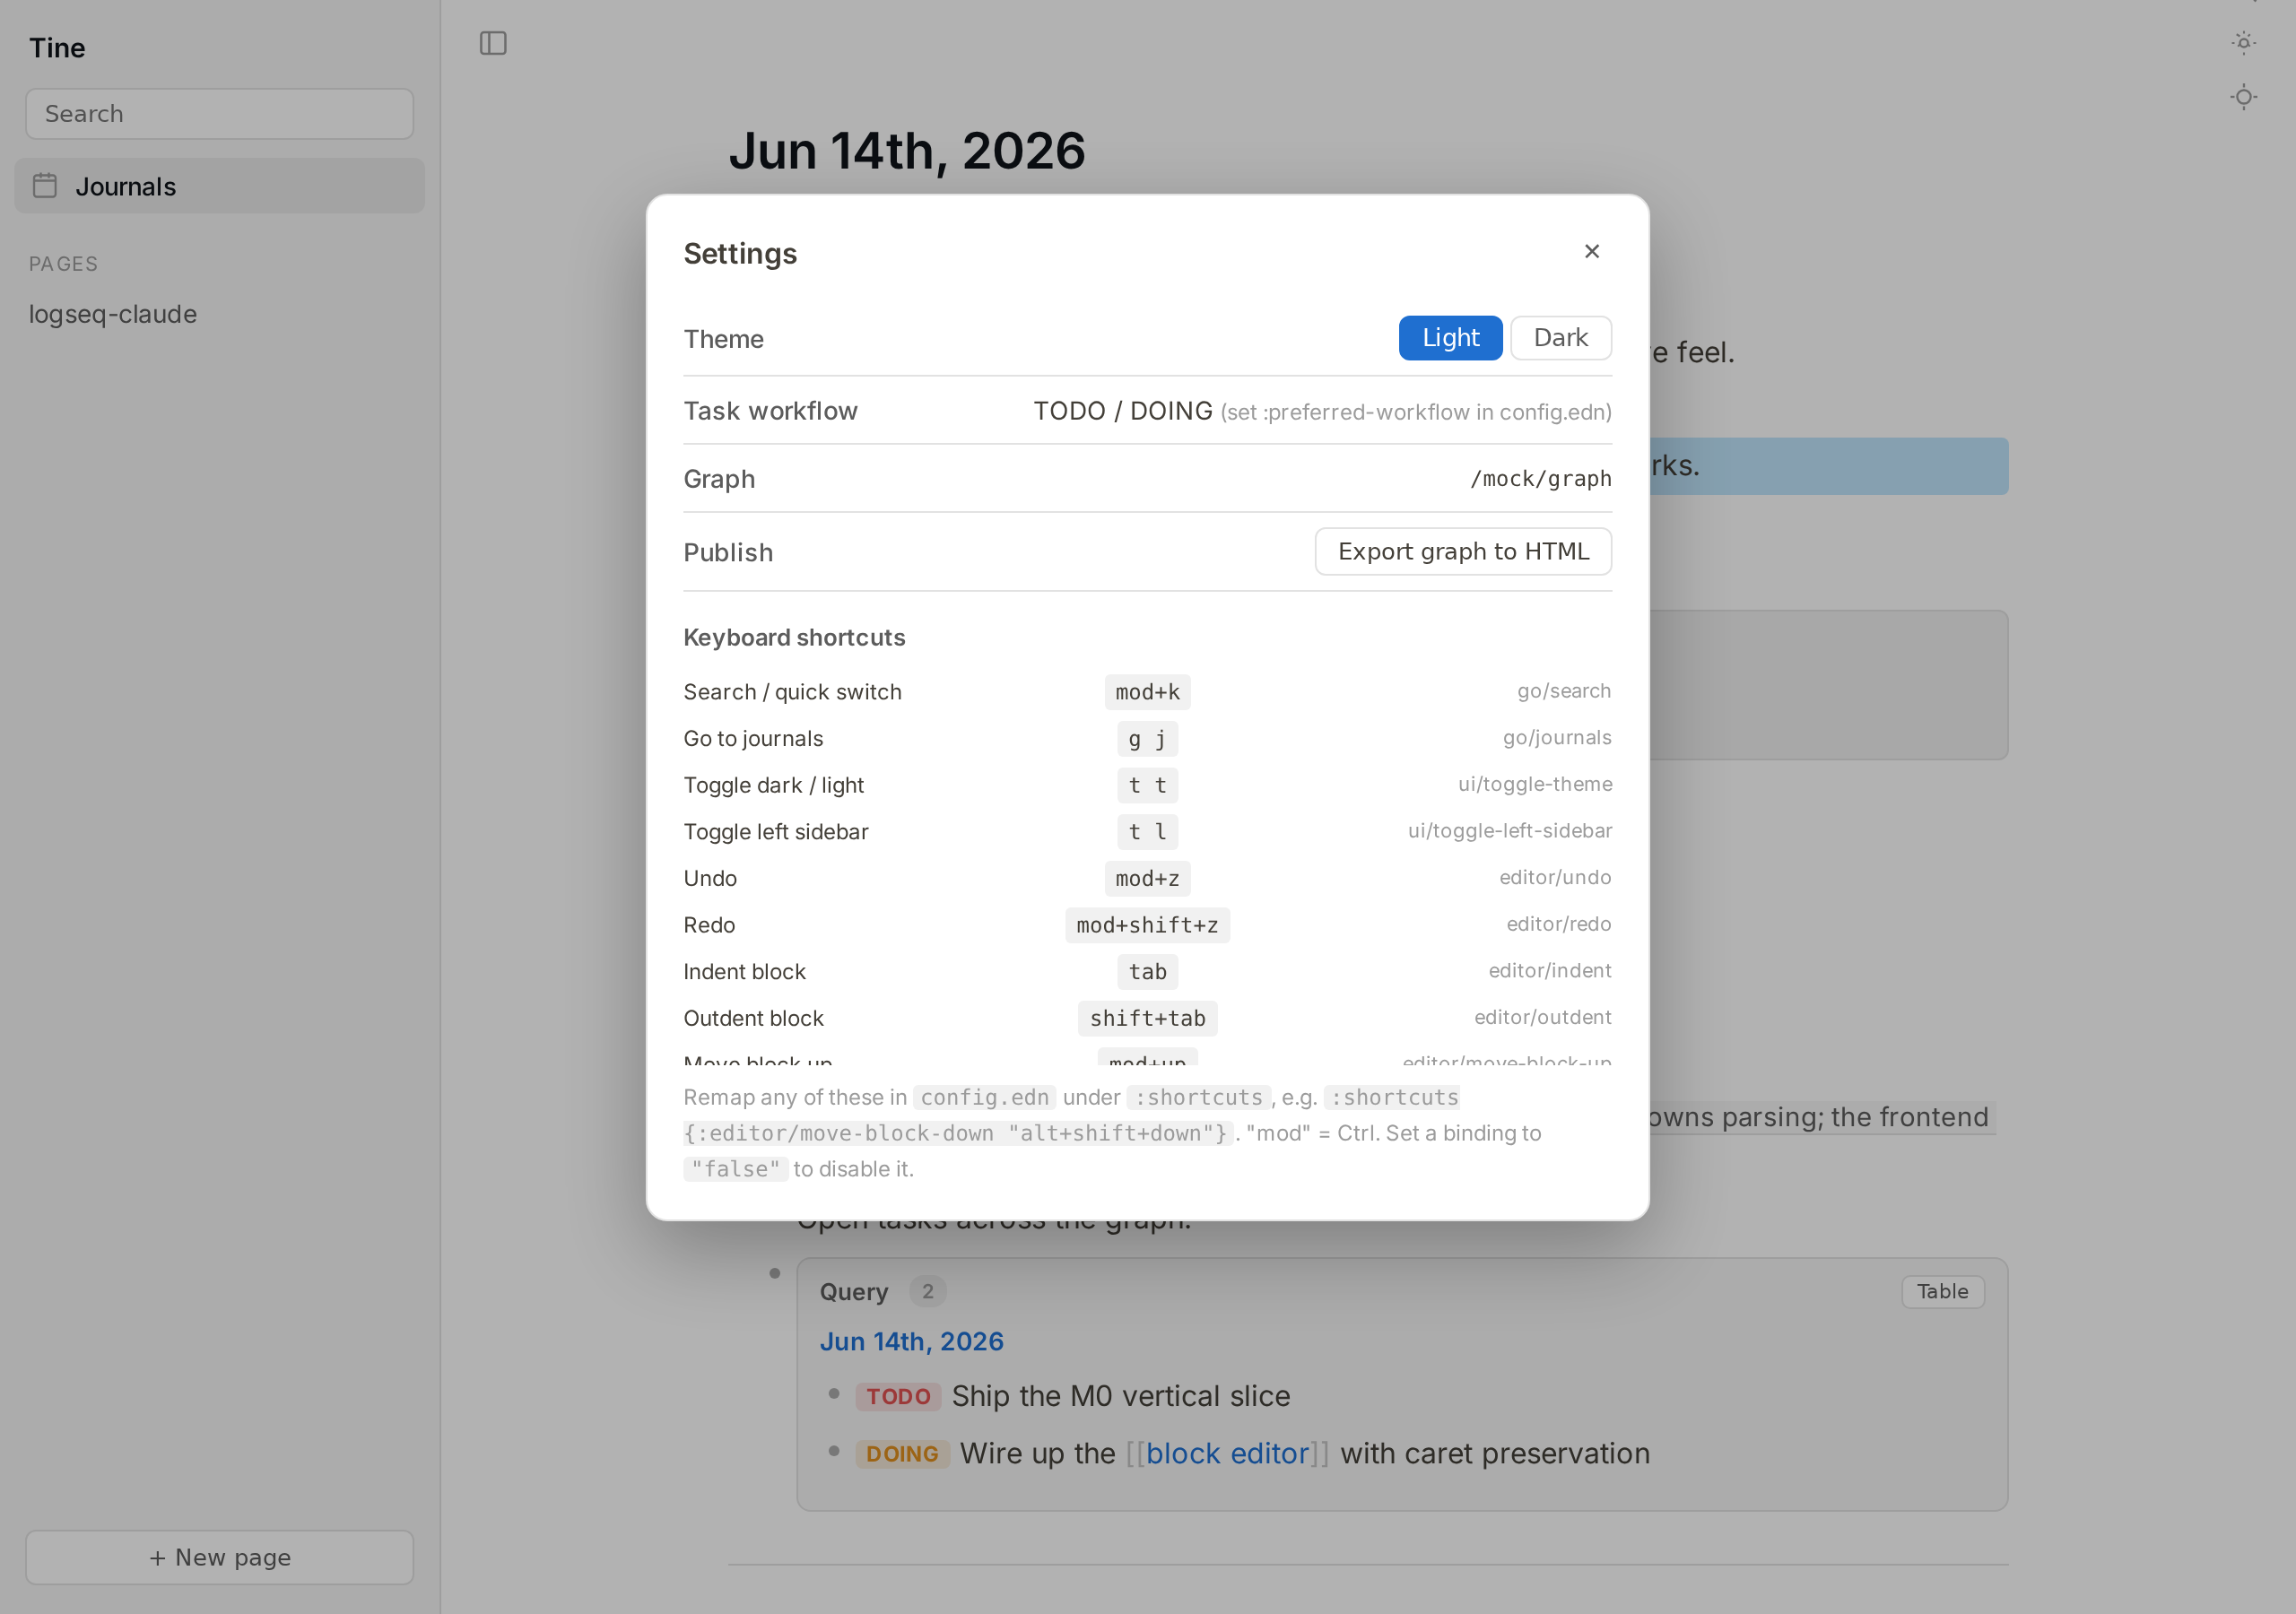
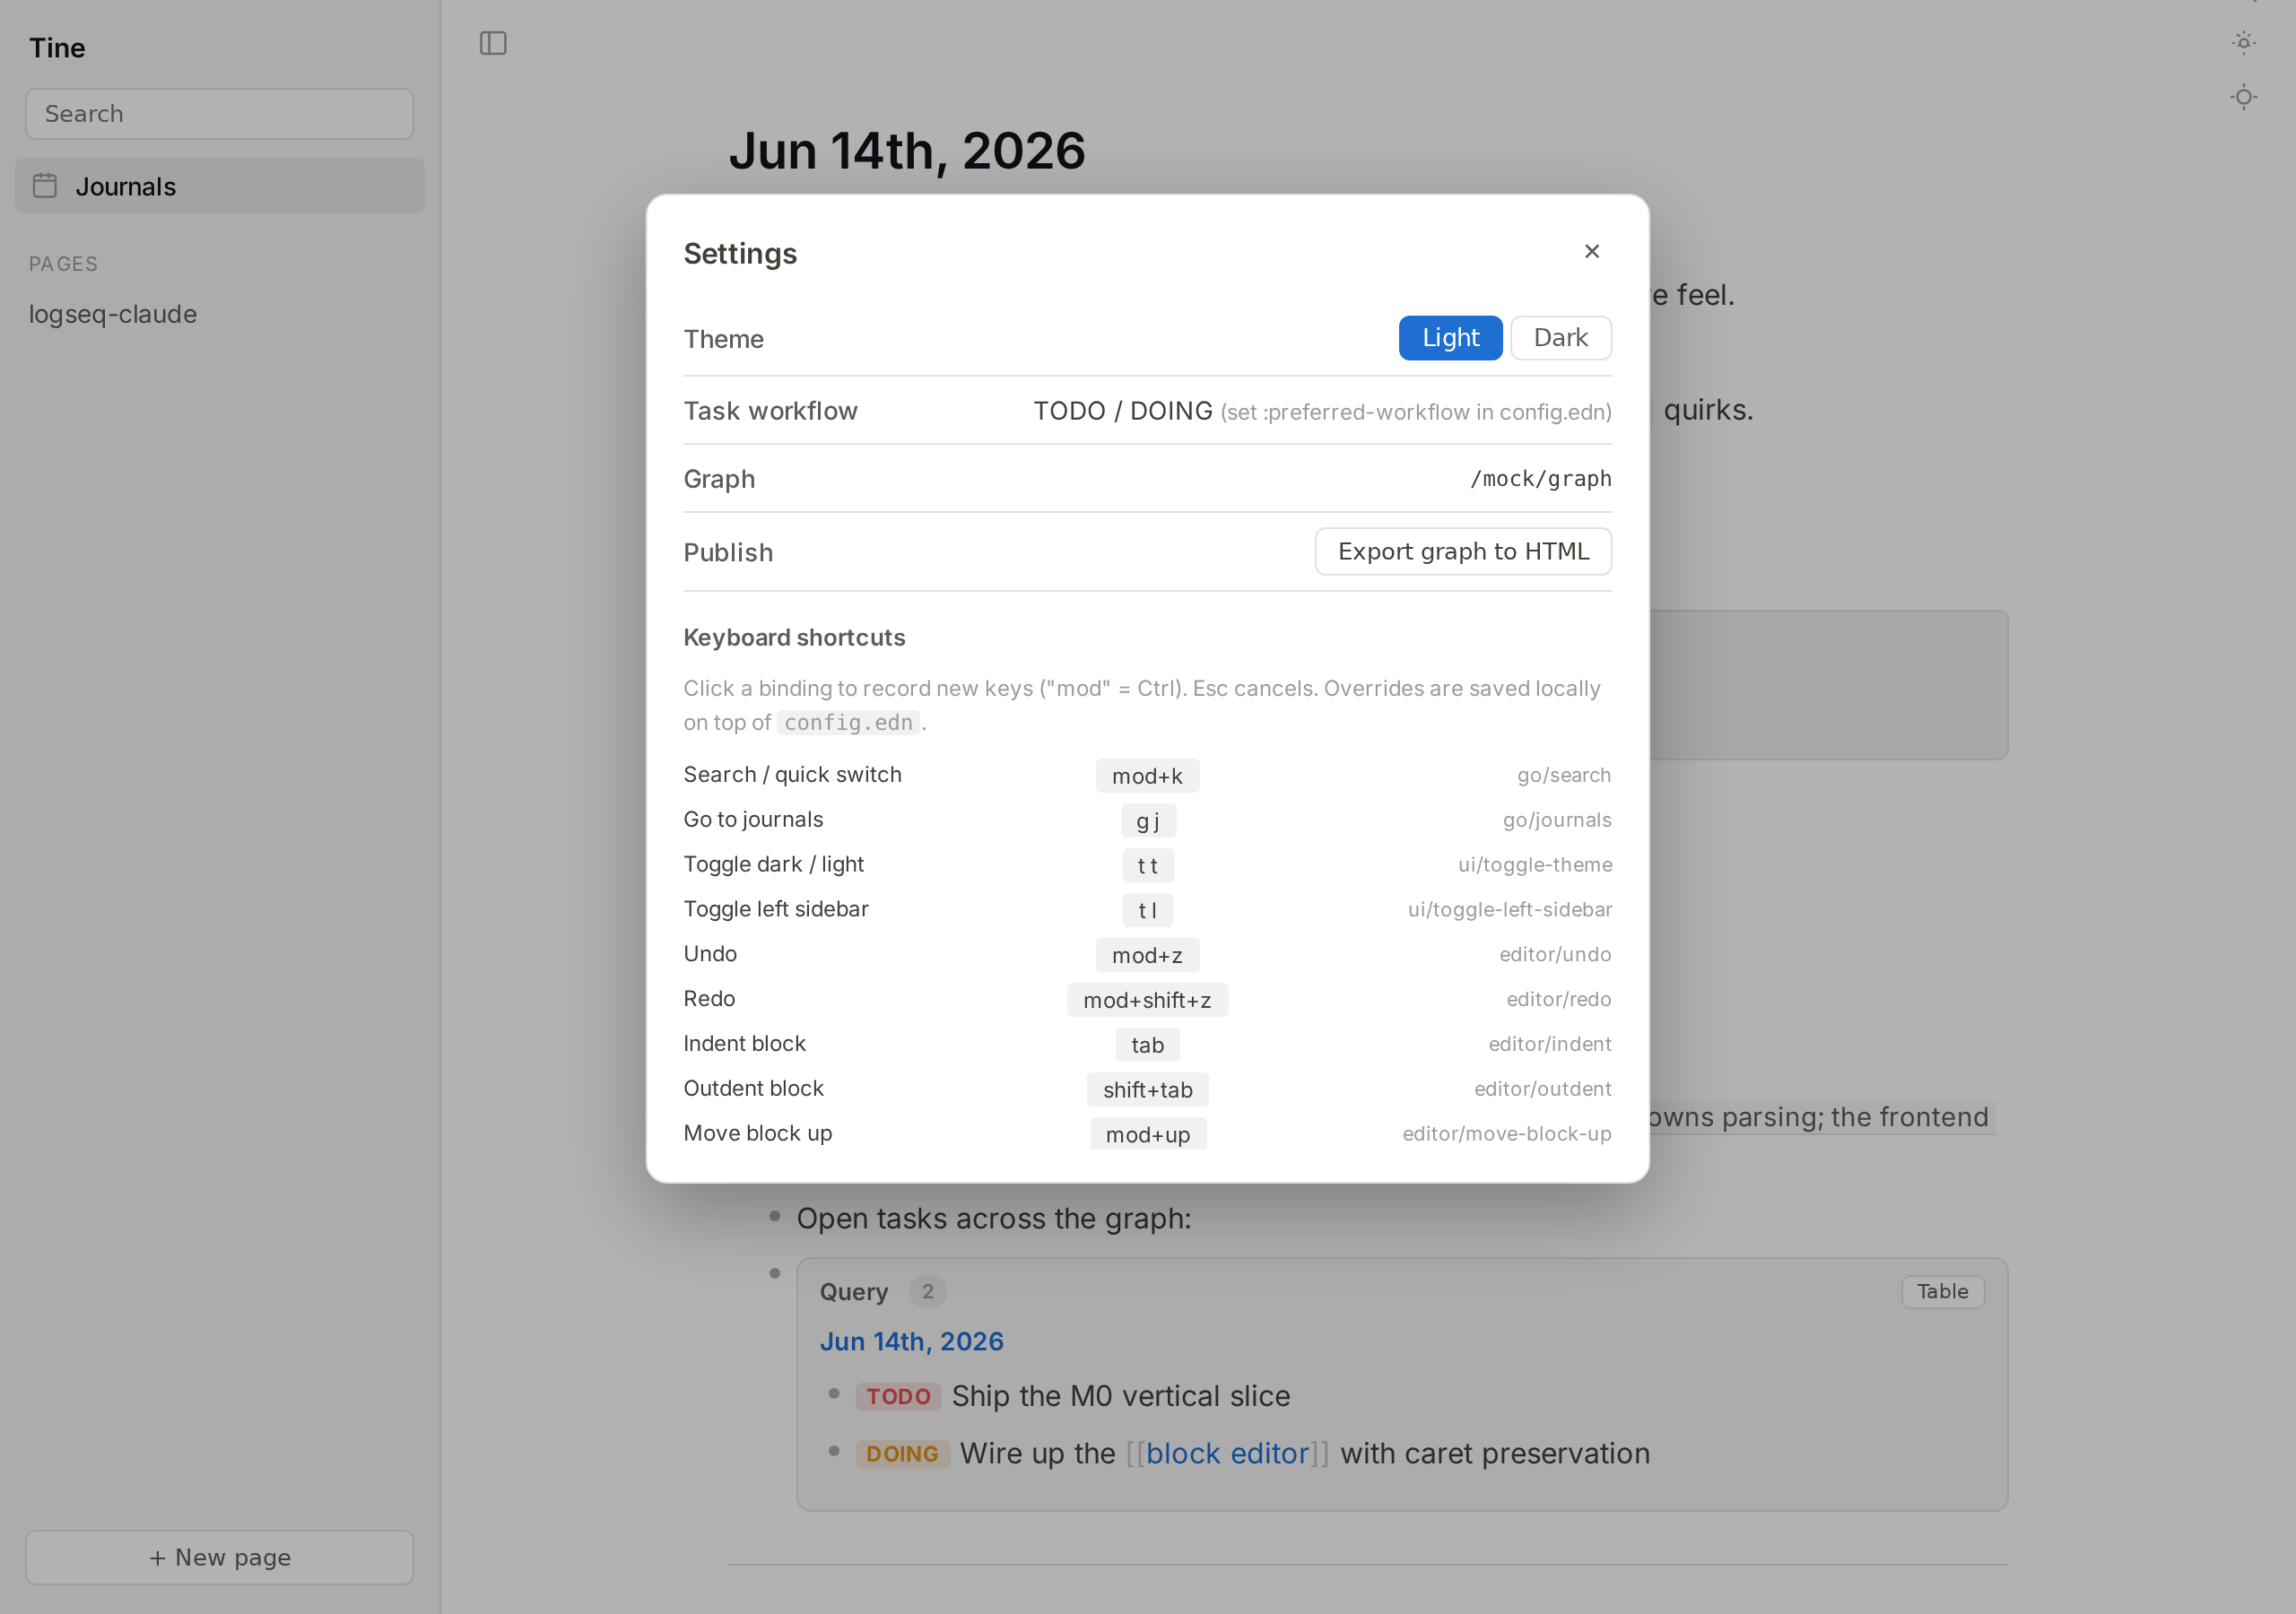
Remap shortcuts in Settings; fix page-name search false positives
- Settings modal: click any binding to record new keys; overrides persist in
  localStorage and layer over config.edn (defaults < config.edn < local). Reset
  button restores a default. Keybindings re-install reactively on change, so
  remaps take effect immediately. Dispatcher suspends during recording so chords
  like mod+k are captured, not fired. Esc now also closes the Settings modal.
- Search: the switcher's page matches were fuzzy (subsequence), so 'banka'
  matched 'BP téma Milan Wikarski'. Require the query as a contiguous substring
  of the page title; the fuzzy quick_switch stays for [[ ]] autocomplete only.

Tests: 43 Rust + 47 JS green.

diff --git a/src/components/Settings.tsx b/src/components/Settings.tsx
@@ -1,6 +1,16 @@
-import { For, Show, createSignal, type JSX } from "solid-js";
-import { settingsOpen, closeSettings, theme, toggleTheme, workflow, graphMeta } from "../ui";
-import { currentShortcuts } from "../keybindings";
+import { For, Show, createEffect, createSignal, onCleanup, type JSX } from "solid-js";
+import {
+  settingsOpen,
+  closeSettings,
+  theme,
+  toggleTheme,
+  workflow,
+  graphMeta,
+  shortcutOverrides,
+  setShortcutOverride,
+  resetShortcutOverride,
+} from "../ui";
+import { commandDefaults, eventToBindingString, setKeybindingsSuspended } from "../keybindings";
 import { backend } from "../backend";
 
 export function Settings(): JSX.Element {
@@ -14,6 +24,43 @@ export function Settings(): JSX.Element {
       setPublishMsg(`Failed: ${String(e)}`);
     }
   };
+
+  // Effective binding = local override > config.edn > built-in default.
+  const shortcuts = () => {
+    const cfg = graphMeta()?.shortcuts ?? {};
+    const ov = shortcutOverrides();
+    return commandDefaults().map((c) => ({
+      ...c,
+      effective: ov[c.id] ?? cfg[c.id] ?? c.binding,
+      overridden: c.id in ov,
+    }));
+  };
+
+  // Recording: capture the next chord for the command being remapped.
+  const [recording, setRecording] = createSignal<string | null>(null);
+  createEffect(() => {
+    const id = recording();
+    if (!id) {
+      setKeybindingsSuspended(false);
+      return;
+    }
+    setKeybindingsSuspended(true);
+    onCleanup(() => setKeybindingsSuspended(false));
+    const onKey = (e: KeyboardEvent) => {
+      e.preventDefault();
+      e.stopPropagation();
+      if (e.key === "Escape") {
+        setRecording(null);
+        return;
+      }
+      const b = eventToBindingString(e);
+      if (!b) return; // bare modifier — keep waiting
+      setShortcutOverride(id, b);
+      setRecording(null);
+    };
+    window.addEventListener("keydown", onKey, true);
+    onCleanup(() => window.removeEventListener("keydown", onKey, true));
+  });
 
   return (
     <Show when={settingsOpen()}>
@@ -66,21 +113,38 @@ export function Settings(): JSX.Element {
           </div>
 
           <div class="settings-section">Keyboard shortcuts</div>
+          <div class="settings-hint settings-block">
+            Click a binding to record new keys ("mod" = Ctrl). Esc cancels.
+            Overrides are saved locally on top of <code>config.edn</code>.
+          </div>
           <div class="settings-shortcuts">
-            <For each={currentShortcuts()}>
+            <For each={shortcuts()}>
               {(s) => (
                 <div class="settings-shortcut-row">
                   <span class="settings-shortcut-label">{s.label}</span>
-                  <code class="settings-shortcut-binding">{s.binding}</code>
-                  <span class="settings-shortcut-id mono">{s.id}</span>
+                  <button
+                    class="settings-shortcut-binding"
+                    classList={{ recording: recording() === s.id, overridden: s.overridden }}
+                    onClick={() => setRecording(recording() === s.id ? null : s.id)}
+                    title="Click to remap"
+                  >
+                    {recording() === s.id ? "Press keys…" : s.effective}
+                  </button>
+                  <span class="settings-shortcut-tail">
+                    <Show when={s.overridden}>
+                      <button
+                        class="settings-shortcut-reset"
+                        title="Reset to default"
+                        onClick={() => resetShortcutOverride(s.id)}
+                      >
+                        ↺
+                      </button>
+                    </Show>
+                    <span class="settings-shortcut-id mono">{s.id}</span>
+                  </span>
                 </div>
               )}
             </For>
-          </div>
-          <div class="settings-hint settings-block">
-            Remap any of these in <code>config.edn</code> under <code>:shortcuts</code>,
-            e.g. <code>{`:shortcuts {:editor/move-block-down "alt+shift+down"}`}</code>.
-            "mod" = Ctrl. Set a binding to <code>"false"</code> to disable it.
           </div>
         </div>
       </div>

diff --git a/src/styles/app.css b/src/styles/app.css
@@ -421,15 +421,50 @@ body {
 }
 .settings-shortcut-binding {
   background: var(--code-bg);
+  border: 1px solid transparent;
   border-radius: 3px;
-  padding: 1px 6px;
+  padding: 1px 8px;
   justify-self: center;
   white-space: nowrap;
+  font-family: inherit;
+  font-size: 12px;
+  color: var(--text-primary);
+  cursor: pointer;
+}
+.settings-shortcut-binding:hover {
+  border-color: var(--border-color);
+}
+.settings-shortcut-binding.overridden {
+  color: var(--accent, #2b7);
+  font-weight: 600;
+}
+.settings-shortcut-binding.recording {
+  border-color: var(--accent, #2b7);
+  background: transparent;
+  color: var(--text-muted);
+  font-style: italic;
+}
+.settings-shortcut-tail {
+  display: flex;
+  align-items: center;
+  justify-content: flex-end;
+  gap: 6px;
+}
+.settings-shortcut-reset {
+  background: none;
+  border: none;
+  cursor: pointer;
+  color: var(--text-muted);
+  font-size: 13px;
+  padding: 0 2px;
+  line-height: 1;
+}
+.settings-shortcut-reset:hover {
+  color: var(--text-primary);
 }
 .settings-shortcut-id {
   color: var(--text-muted);
   font-size: 11px;
-  text-align: right;
 }
 .settings-seg {
   display: flex;

diff --git a/src/keybindings.ts b/src/keybindings.ts
@@ -7,7 +7,7 @@
 // (Block.tsx) resolve keys through the same merged binding table, so every
 // listed command is remappable from config.edn.
 
-import { openSwitcher, toggleTheme, toggleSidebar, closeSwitcher } from "./ui";
+import { openSwitcher, toggleTheme, toggleSidebar, closeSwitcher, closeSettings } from "./ui";
 import { openJournals } from "./router";
 import {
   undo,
@@ -116,6 +116,14 @@ function chordEq(a: Chord, b: Chord): boolean {
 let bindings: Record<string, Chord[]> = {};
 let overridesApplied: Record<string, string> = {};
 
+// When true, the global dispatcher ignores all keys — used while the Settings
+// modal is recording a new binding so chords like "mod+k" get captured instead
+// of firing their command.
+let suspended = false;
+export function setKeybindingsSuspended(b: boolean) {
+  suspended = b;
+}
+
 /** Does the event match the configured binding for `id`? (single-chord only). */
 export function matchesCommand(e: KeyboardEvent, id: string): boolean {
   const cs = bindings[id];
@@ -130,6 +138,27 @@ export function currentShortcuts(): { id: string; label: string; binding: string
     label: c.label,
     binding: overridesApplied[c.id] ?? c.binding,
   })).filter((c) => c.binding !== "false");
+}
+
+/** Built-in command defaults (id + label + default binding) for the Settings
+ *  remap UI, which computes the effective binding reactively from these plus
+ *  config.edn and the user's local overrides. */
+export function commandDefaults(): { id: string; label: string; binding: string }[] {
+  return COMMANDS.map((c) => ({ id: c.id, label: c.label, binding: c.binding }));
+}
+
+/** Turn a keyboard event into a binding string like "mod+shift+down". Returns
+ *  null for a bare modifier press (keep waiting). */
+export function eventToBindingString(e: KeyboardEvent): string | null {
+  if (["Control", "Shift", "Alt", "Meta"].includes(e.key)) return null;
+  const c = eventToChord(e);
+  if (!c.key) return null;
+  const parts: string[] = [];
+  if (c.mod) parts.push("mod");
+  if (c.alt) parts.push("alt");
+  if (c.shift) parts.push("shift");
+  parts.push(c.key);
+  return parts.join("+");
 }
 
 function isEditableTarget(t: EventTarget | null): boolean {
@@ -196,6 +225,7 @@ export function installKeybindings(overrides: Record<string, string> = {}): () =
   };
 
   const handler = (e: KeyboardEvent) => {
+    if (suspended) return;
     // Ignore bare modifier presses.
     if (["Control", "Shift", "Alt", "Meta"].includes(e.key)) return;
 
@@ -211,9 +241,12 @@ export function installKeybindings(overrides: Record<string, string> = {}): () =
       }
     }
 
-    // Escape closes the switcher regardless of context.
+    // Escape closes transient overlays regardless of context. (While recording
+    // a shortcut the dispatcher is suspended, so Escape there cancels recording
+    // instead of reaching here.)
     if (e.key === "Escape") {
       closeSwitcher();
+      closeSettings();
     }
 
     // While typing, only modifier chords are eligible (so "g j" doesn't fire).

diff --git a/src/ui.ts b/src/ui.ts
@@ -113,6 +113,37 @@ export function toggleFavorite(name: string, kind: "page" | "journal" = "page") 
   }
 }
 
+// User keyboard-shortcut overrides set from the Settings modal. Persisted
+// locally and layered on top of config.edn `:shortcuts` (which is itself on top
+// of the built-in defaults). Map of command id -> binding string.
+const SHORTCUTS_KEY = "logseq-claude.shortcuts";
+function loadShortcutOverrides(): Record<string, string> {
+  try {
+    const v = JSON.parse(localStorage.getItem(SHORTCUTS_KEY) ?? "{}");
+    return v && typeof v === "object" ? v : {};
+  } catch {
+    return {};
+  }
+}
+export const [shortcutOverrides, setShortcutOverrides] =
+  createSignal<Record<string, string>>(loadShortcutOverrides());
+function persistShortcuts(next: Record<string, string>) {
+  setShortcutOverrides(next);
+  try {
+    localStorage.setItem(SHORTCUTS_KEY, JSON.stringify(next));
+  } catch {
+    // ignore
+  }
+}
+export function setShortcutOverride(id: string, binding: string) {
+  persistShortcuts({ ...shortcutOverrides(), [id]: binding });
+}
+export function resetShortcutOverride(id: string) {
+  const next = { ...shortcutOverrides() };
+  delete next[id];
+  persistShortcuts(next);
+}
+
 // Block zoom: focus a single block's subtree (click its bullet). Session-level
 // (the frontend block id stays valid while the page is loaded); cleared on nav.
 export const [zoomedBlock, setZoomedBlock] = createSignal<string | null>(null);

diff --git a/src/App.tsx b/src/App.tsx
@@ -1,4 +1,4 @@
-import { Show, onCleanup, onMount, type JSX } from "solid-js";
+import { Show, createEffect, onCleanup, onMount, type JSX } from "solid-js";
 import { Sidebar } from "./components/Sidebar";
 import { PageView } from "./components/Page";
 import { QuickSwitcher } from "./components/QuickSwitcher";
@@ -21,7 +21,9 @@ import {
   setSidebarWidth,
   persistSidebarWidth,
   setGraphMeta,
+  graphMeta,
   openSettings,
+  shortcutOverrides,
 } from "./ui";
 
 export function App(): JSX.Element {
@@ -30,7 +32,14 @@ export function App(): JSX.Element {
     const meta = await backend().loadGraph(graphPath);
     setGraphMeta(meta ?? null);
     setWorkflow(meta?.preferred_workflow === "todo" ? "todo" : "now");
-    const dispose = installKeybindings(meta?.shortcuts ?? {});
+  });
+
+  // (Re)install keybindings whenever config or the user's local overrides change
+  // (precedence: defaults < config.edn :shortcuts < Settings overrides).
+  createEffect(() => {
+    const cfg = graphMeta()?.shortcuts ?? {};
+    const merged = { ...cfg, ...shortcutOverrides() };
+    const dispose = installKeybindings(merged);
     onCleanup(dispose);
   });
 

diff --git a/src/components/QuickSwitcher.tsx b/src/components/QuickSwitcher.tsx
@@ -19,8 +19,14 @@ export function QuickSwitcher(): JSX.Element {
   const [hits] = createResource(query, (q) => (q.trim() ? backend().search(q, 12) : Promise.resolve([])));
 
   const rows = (): Row[] => {
-    const pageRows: Row[] = (pages() ?? []).map((entry) => ({ kind: "page" as const, entry }));
-    const seen = new Set(pageRows.map((r) => (r.kind === "page" ? r.entry.name.toLowerCase() : "")));
+    // Page matches: require the query as a contiguous substring of the title.
+    // The backend's quick_switch is fuzzy (subsequence) for `[[` autocomplete,
+    // but in a search box subsequence matches read as false positives (e.g.
+    // "banka" matching "BP téma Milan Wikarski").
+    const q = query().trim().toLowerCase();
+    const pageRows: Row[] = (pages() ?? [])
+      .filter((entry) => !q || entry.name.toLowerCase().includes(q))
+      .map((entry) => ({ kind: "page" as const, entry }));
     const blockRows: Row[] = [];
     for (const g of hits() ?? []) {
       for (const b of g.blocks) {